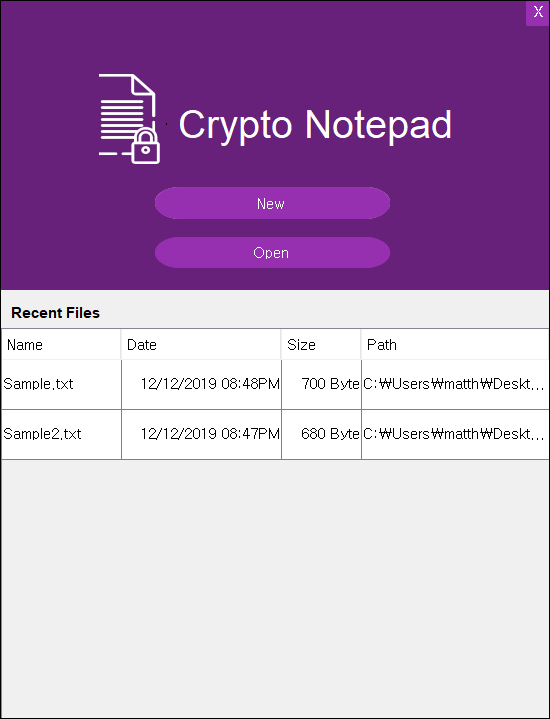
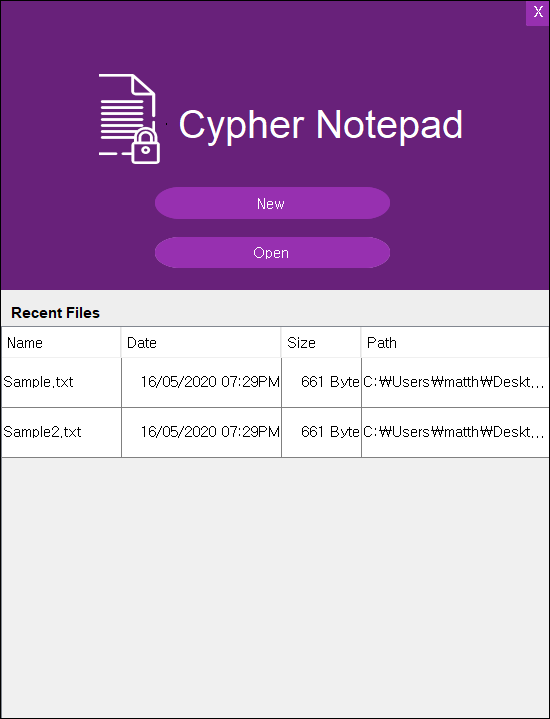
change the title

diff --git a/index.js b/index.js
@@ -84,7 +84,7 @@ function getIntroTab(){
 
 
   contentSub = '<div style="font-size:12px;font-color:#777;margin-bottom:20px;">' + 
-                  '<h2 id="download_tab_sub_title">Crypto-Notepad</h2>' + 
+                  '<h2 id="download_tab_sub_title">Cypher Notepad</h2>' + 
                   'Easy, Simple, Secure, and Free' + 
                 '</div>' + 
   '<div id="download_tab_sub_text">' +
@@ -216,7 +216,7 @@ function getDownloadTab(){
 
   contentSub = '<div> <h2 class="tab_sub_title">Download and Protect your data!<h2> </div>' + 
                 '<div class="tab_sub_text">' +
-                 '<h3> Crypto-Notepad 2.0 </h3>' +
+                 '<h3> Cypher Notepad 2.1 </h3>' +
                  '<div id="dowload_tab_sub_text_detail">' + 
                   '<ul class="download_detail">' + 
                      '<li>Release Date : 11 Nov 2019</li>' + 
@@ -276,7 +276,7 @@ function getContactTab(){
                   '<div class="contact_tab_noti">' + 
                   '<div id="noti_ring" class="noti_icon icon ion-md-notifications"></div>' + 
                   '<strong style="font-size:28px;">HELP</strong><br>' + 
-                  '<div style="margin-left:42px;">We are looking for an Android/IOS developer who is willing to develop and upgrade Crypto-Notepad. ' + 
+                  '<div style="margin-left:42px;">We are looking for an Android/IOS developer who is willing to develop and upgrade Cypher Notepad. ' + 
                   'Anyone with an interest on contributing to this project is welcome. ' + 
                   'Please contact us via any of the links above.</div>' +
                   '</div>' + 

diff --git a/index.html b/index.html
@@ -3,7 +3,7 @@
 
   <meta name="viewport" content="width=device-width, initial-scale=1">
 
-  <title>Crypto-Notepad</title>
+  <title>Cypher Notepad</title>
   <link href="https://fonts.googleapis.com/css?family=Nunito:400,600,700" rel="stylesheet">
  <link rel="stylesheet" href="https://maxcdn.bootstrapcdn.com/bootstrap/3.4.1/css/bootstrap.min.css">
   <link href="https://unpkg.com/ionicons@4.5.10-0/dist/css/ionicons.min.css" rel="stylesheet">
